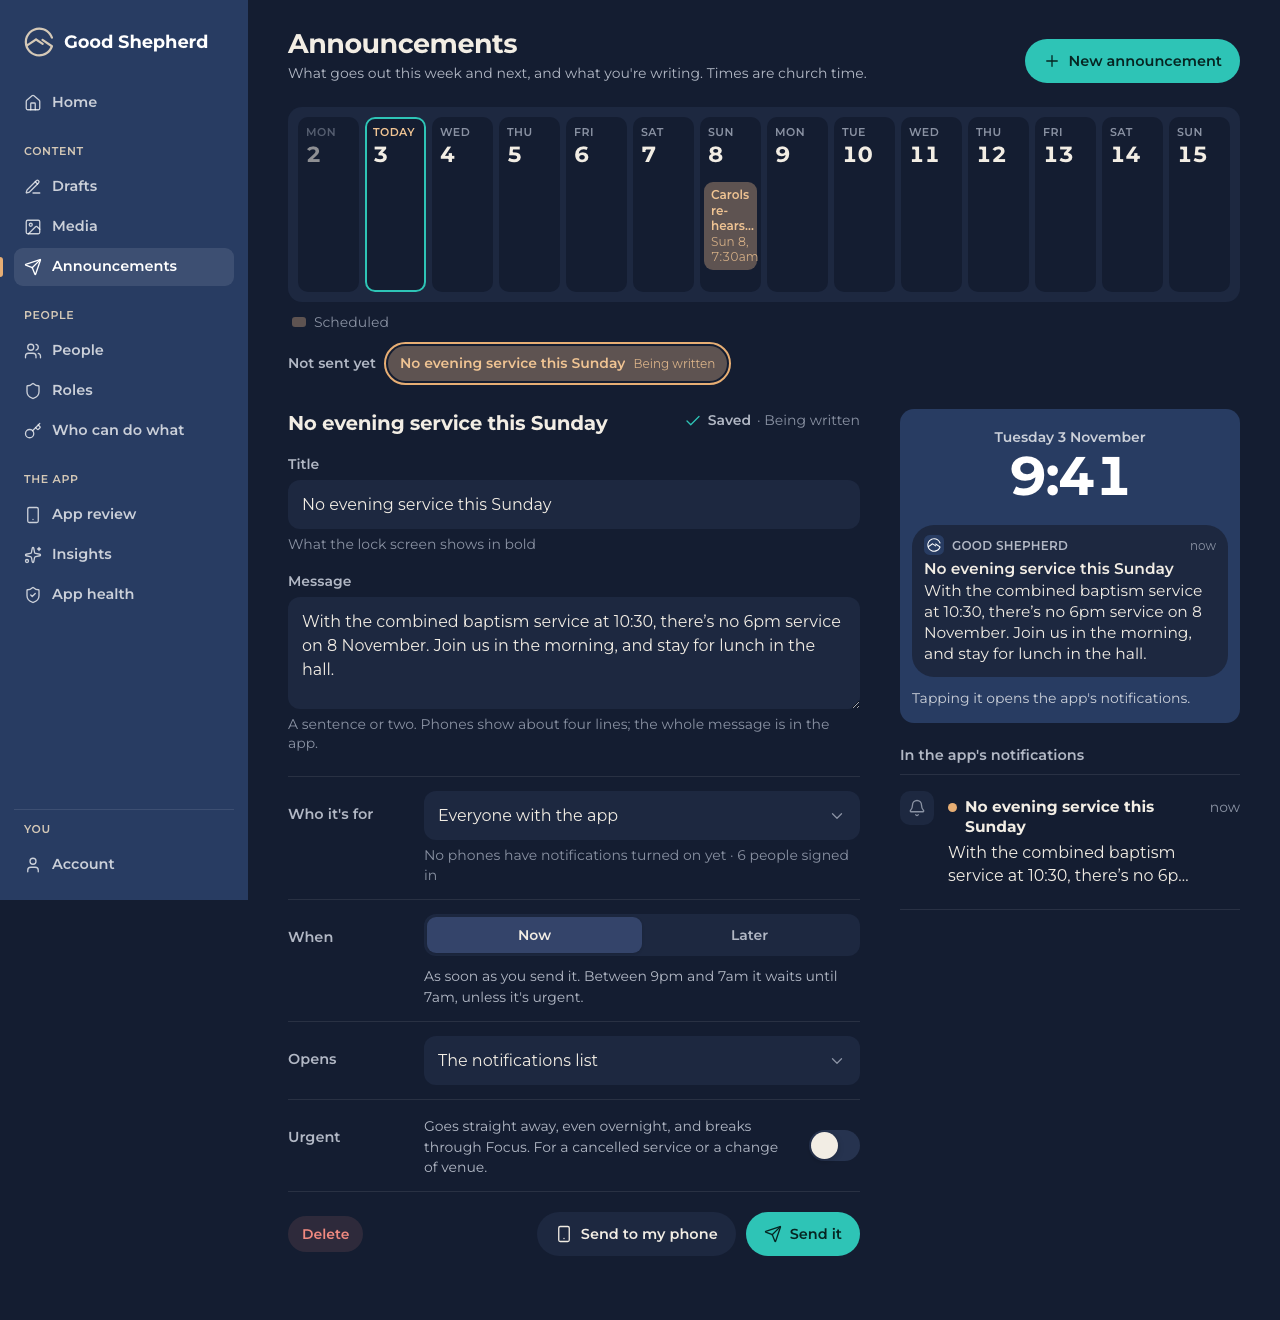
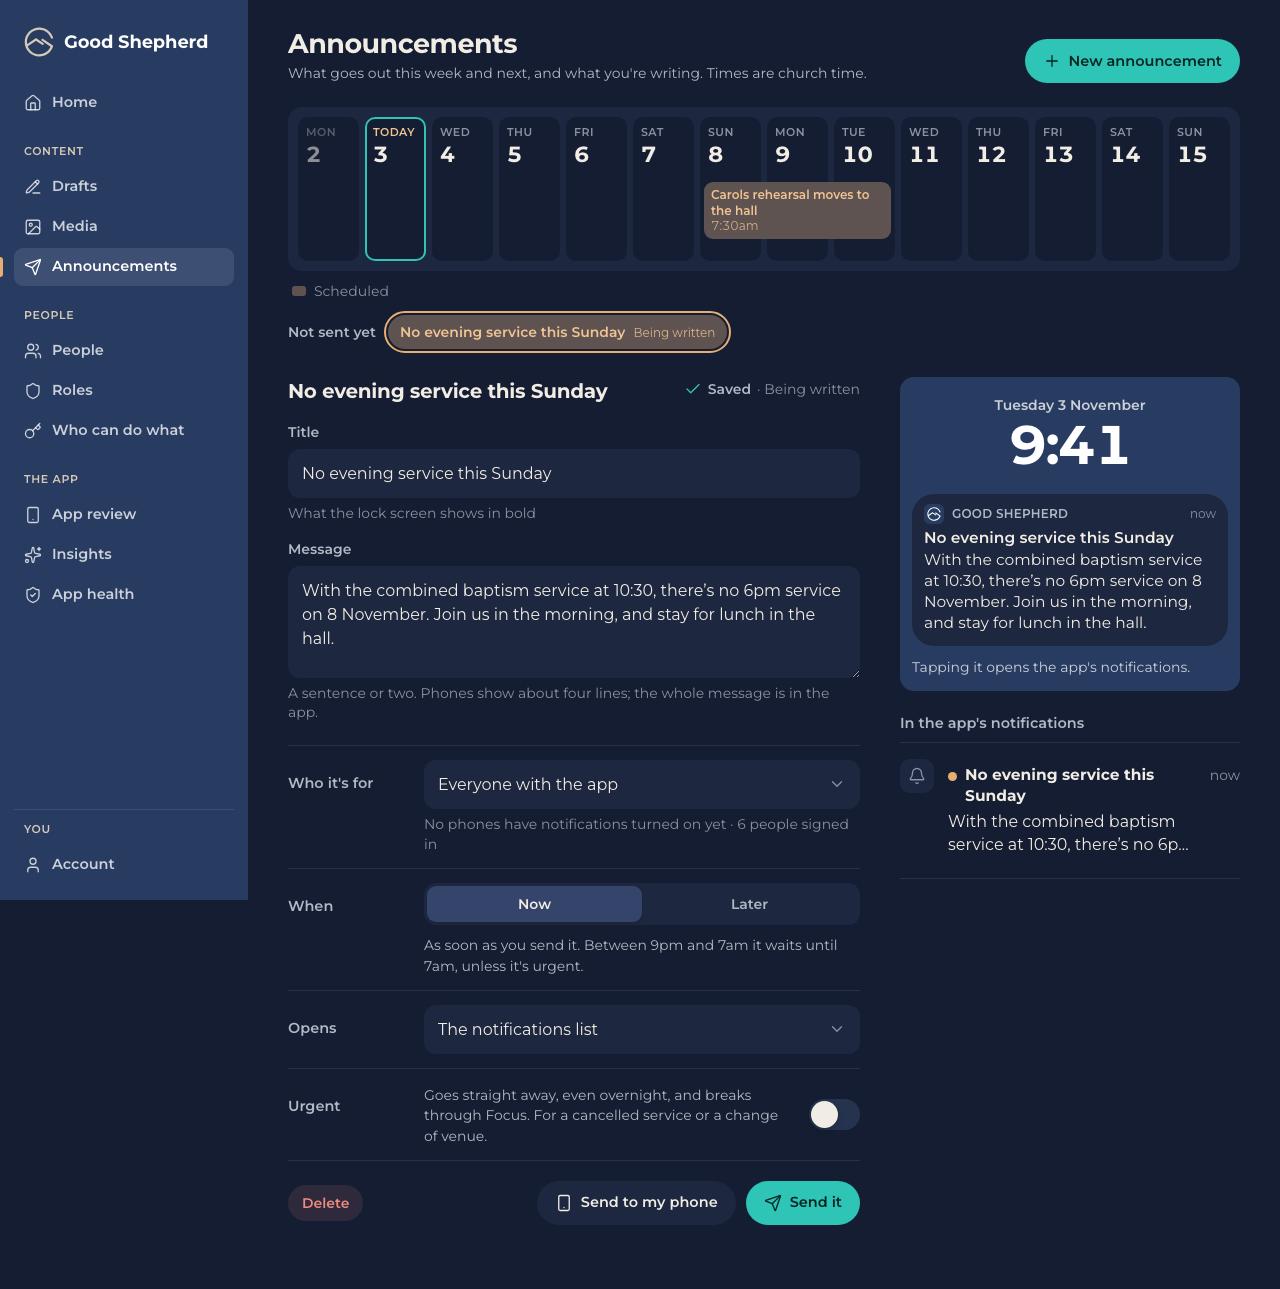
The fortnight rail packs its capsules and lets a moment read across free days
Capsules share rows when their days don't overlap. A capsule for one moment
stretches over up to three free days after it in its row, and shows only
the time, since the column already names the day.

Claude-Session: https://claude.ai/code/session_01KqANXesNQxoNSTjNtojCoA

diff --git a/src/Platform/GSBC.ChurchApp.Platform.Ui/wwwroot/css/ui.css b/src/Platform/GSBC.ChurchApp.Platform.Ui/wwwroot/css/ui.css
@@ -767,7 +767,8 @@ button.row:active, a.row:active { background: var(--line); }
 .office-rail__swatch { width: 14px; height: 10px; border-radius: 3px; }
 
 
-.office-rail__span--moment .office-rail__span-title { display: -webkit-box; white-space: normal; overflow-wrap: break-word; hyphens: auto; -webkit-box-orient: vertical; -webkit-line-clamp: 3; }
+.office-rail__span--moment .office-rail__span-title { display: -webkit-box; white-space: normal; -webkit-box-orient: vertical; -webkit-line-clamp: 2; }
+.office-rail__span-when { overflow: hidden; white-space: nowrap; text-overflow: ellipsis; }
 .office-rail--fortnight .office-rail__grid { grid-template-columns: repeat(var(--days), minmax(56px, 1fr)); column-gap: 6px; min-height: 0; overflow-x: auto; }
 .office-rail--fortnight .office-rail__day { padding: 8px 8px 10px; }
 .office-rail--fortnight .office-rail__span { margin: 0 4px 6px; padding: 5px 7px; font-size: var(--text-pill); }
